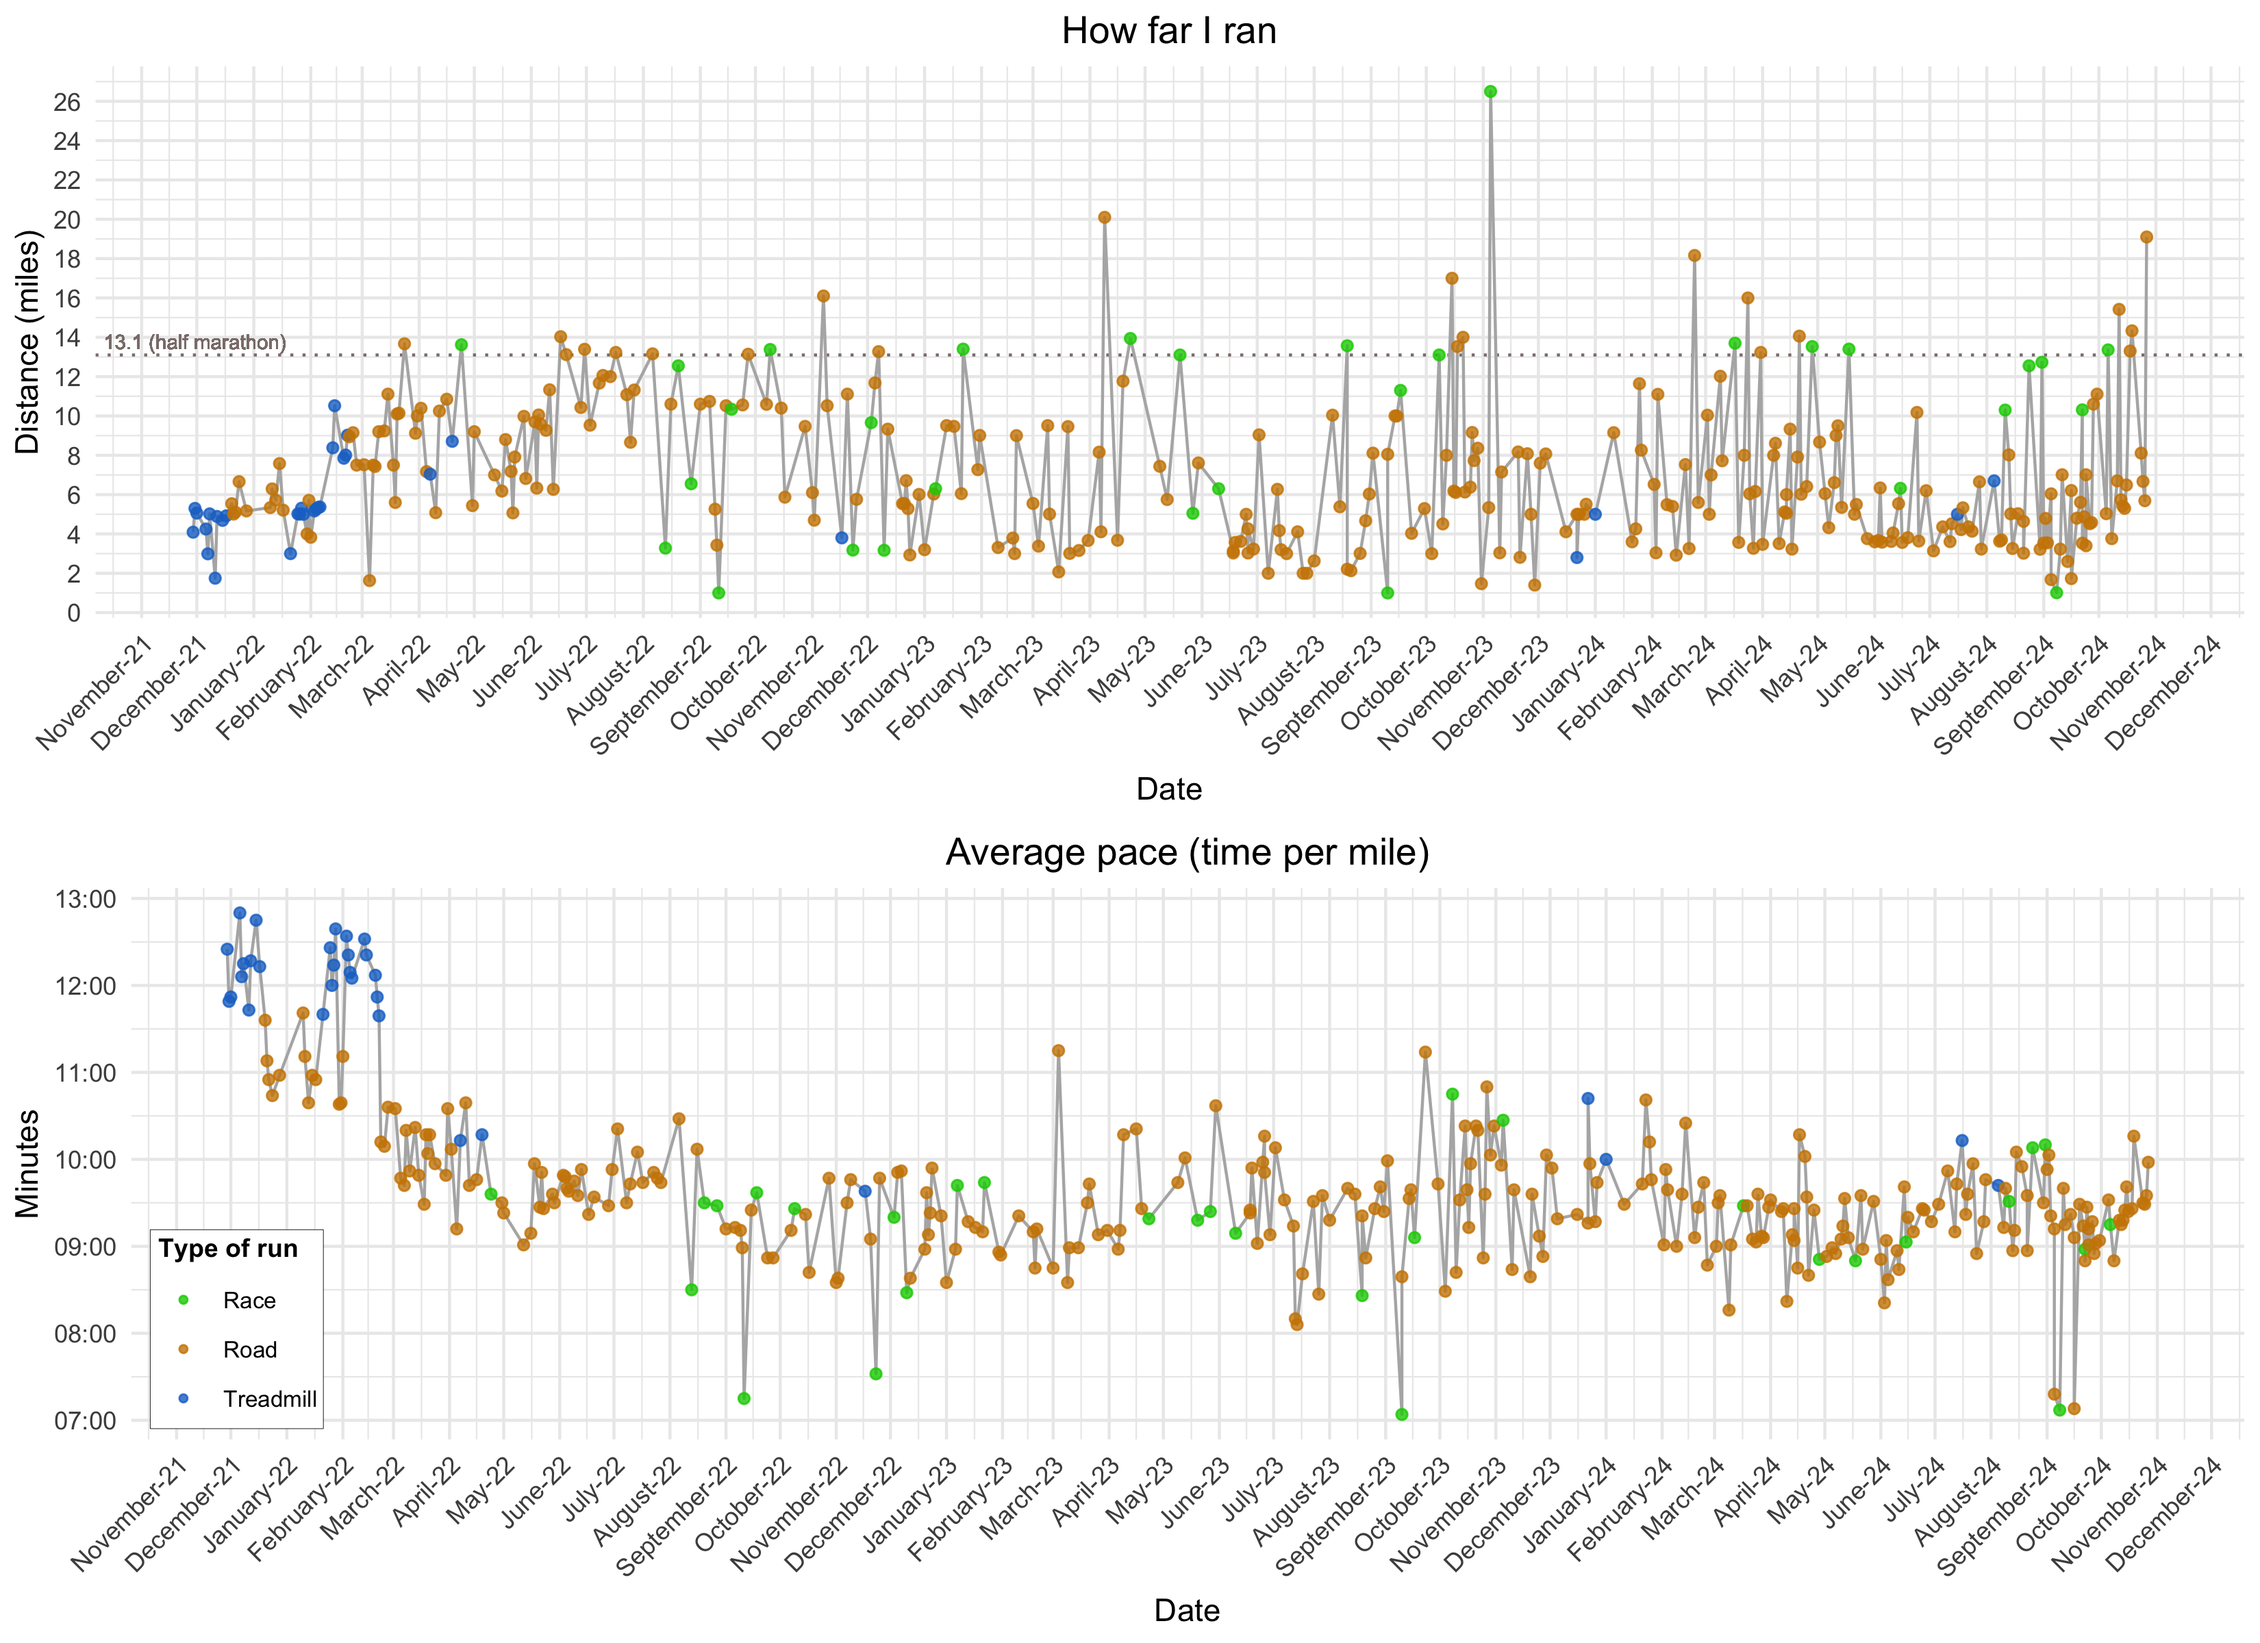
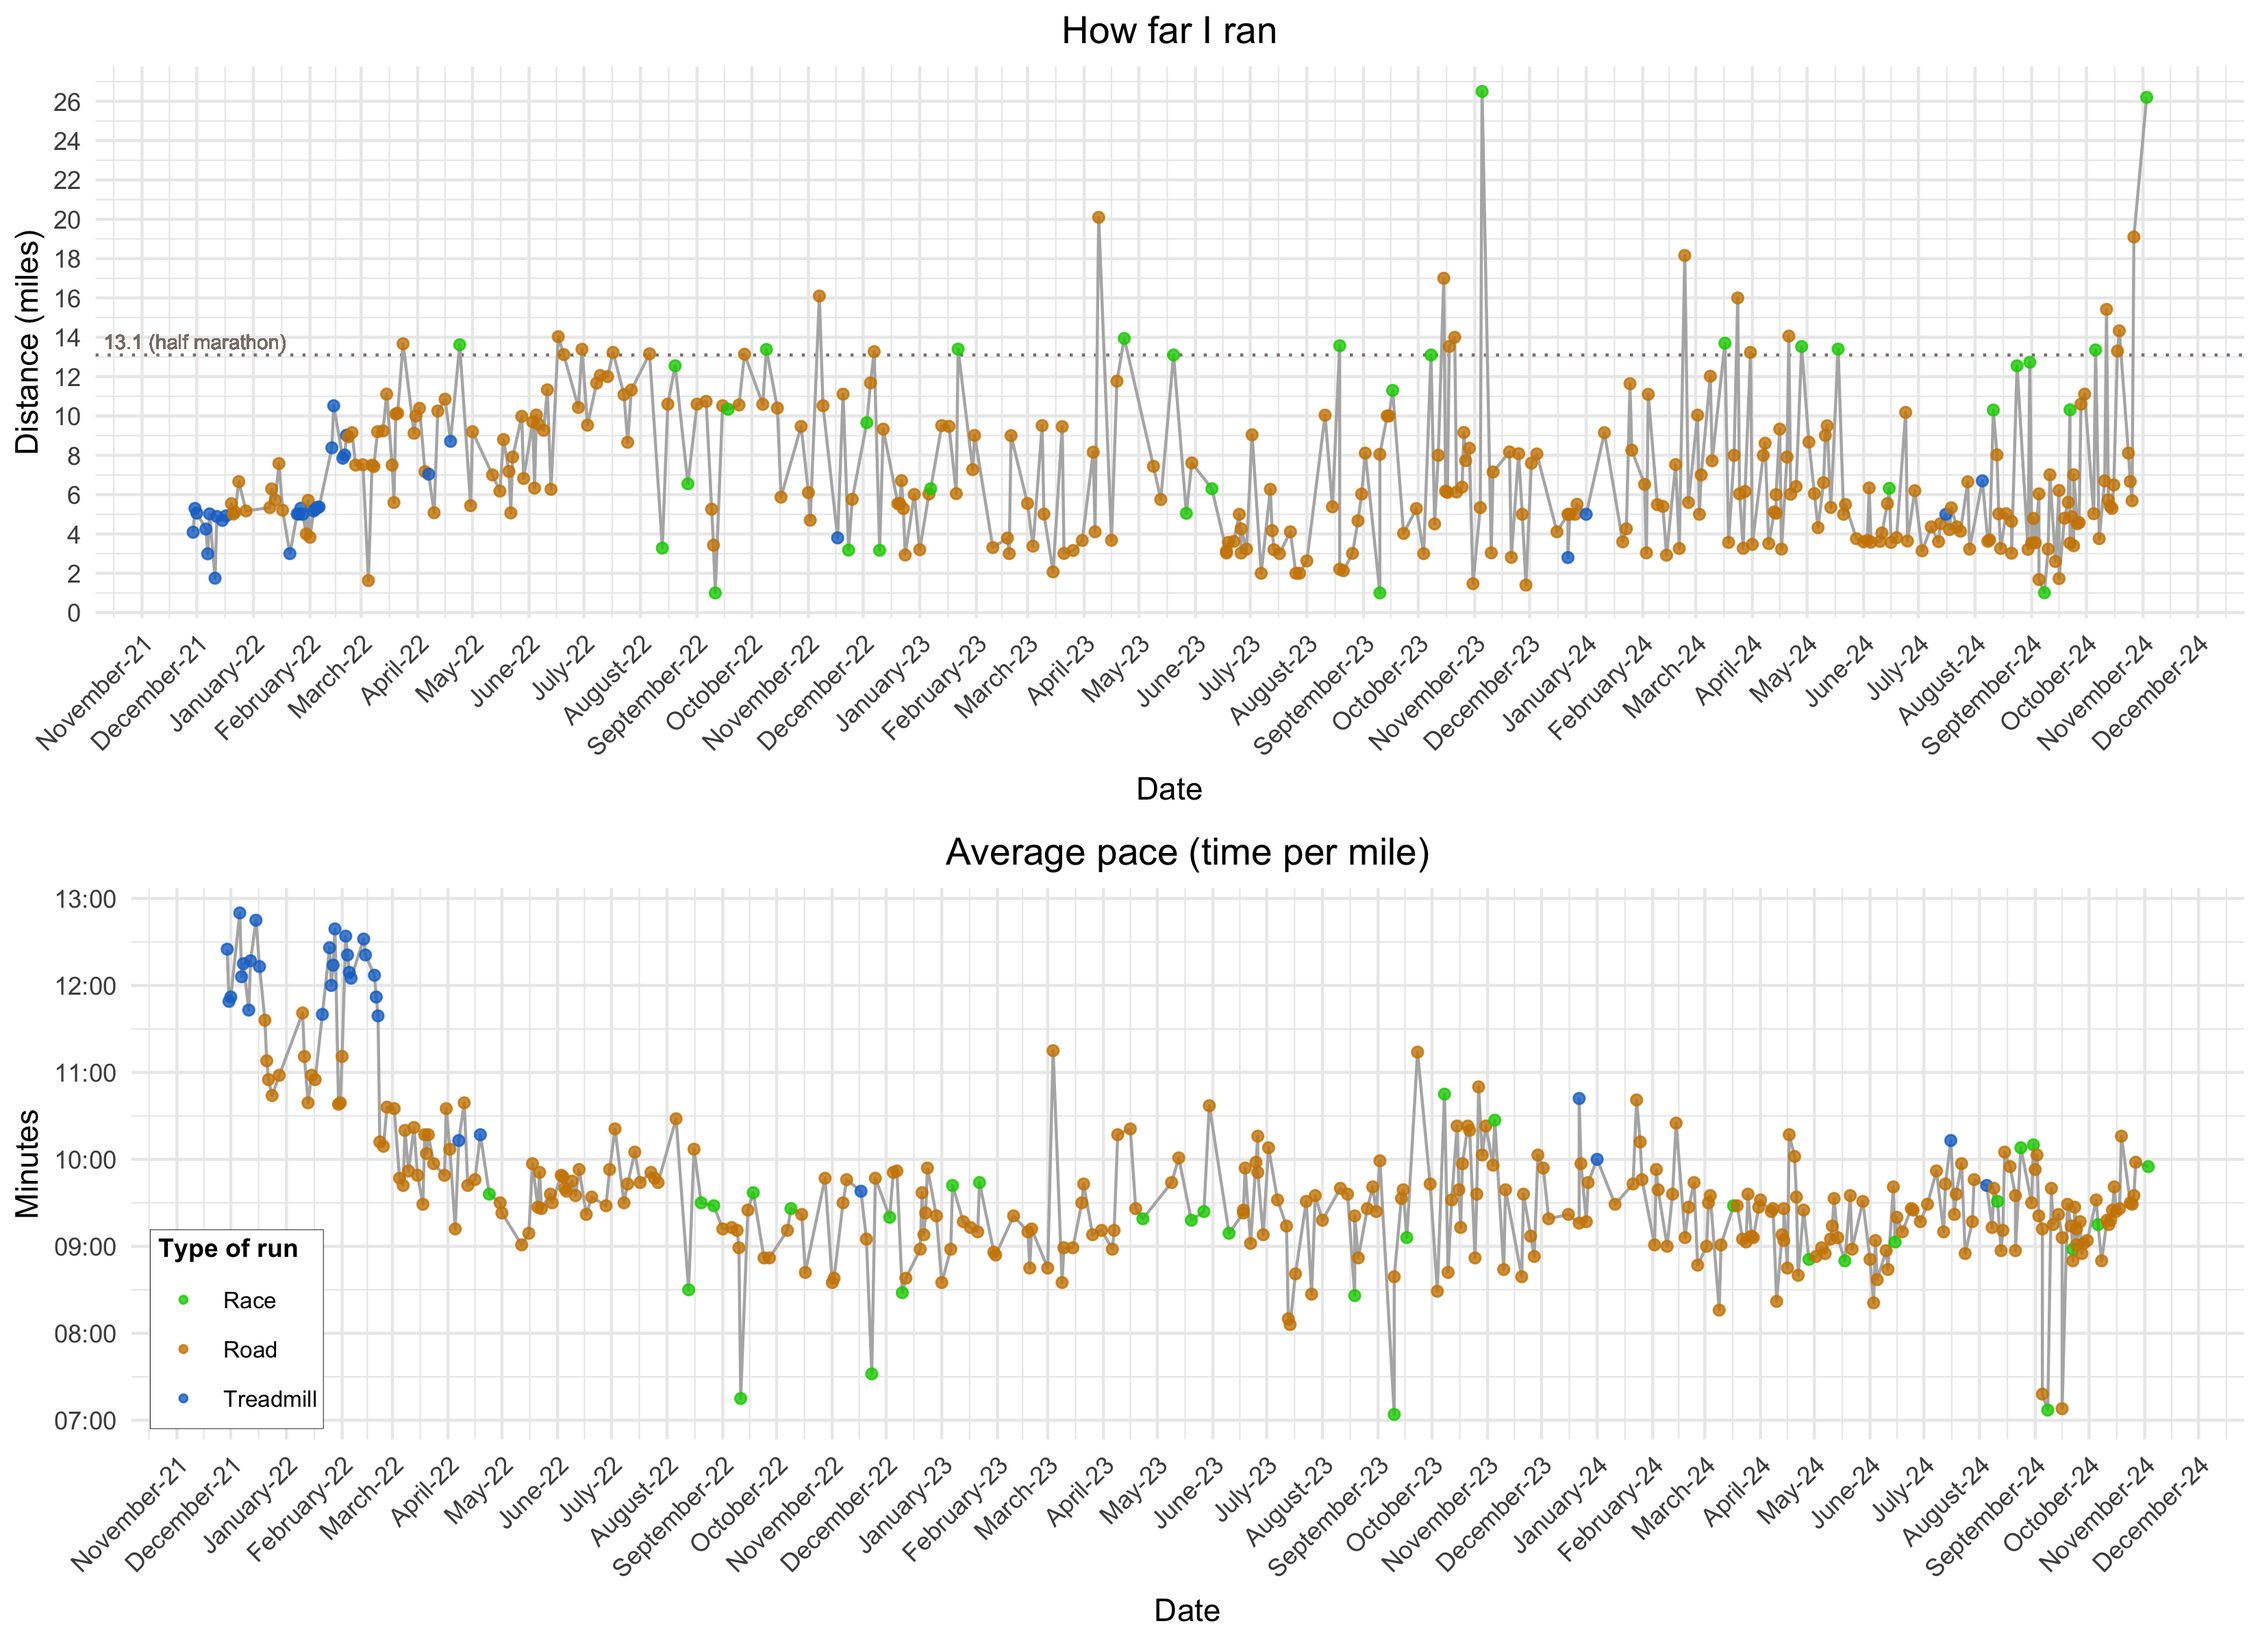
11/3/24 - NYC Marathon

diff --git a/README.md b/README.md
@@ -46,7 +46,7 @@ Total miles since 11/29/21:
 sum(runningData$Miles)
 ```
 
-    ## [1] 2498.61
+    ## [1] 2524.81
 
 Average distance over last ten runs:
 
@@ -54,4 +54,4 @@ Average distance over last ten runs:
 mean(tail(runningData$Miles, 10))
 ```
 
-    ## [1] 9.015
+    ## [1] 11.061
